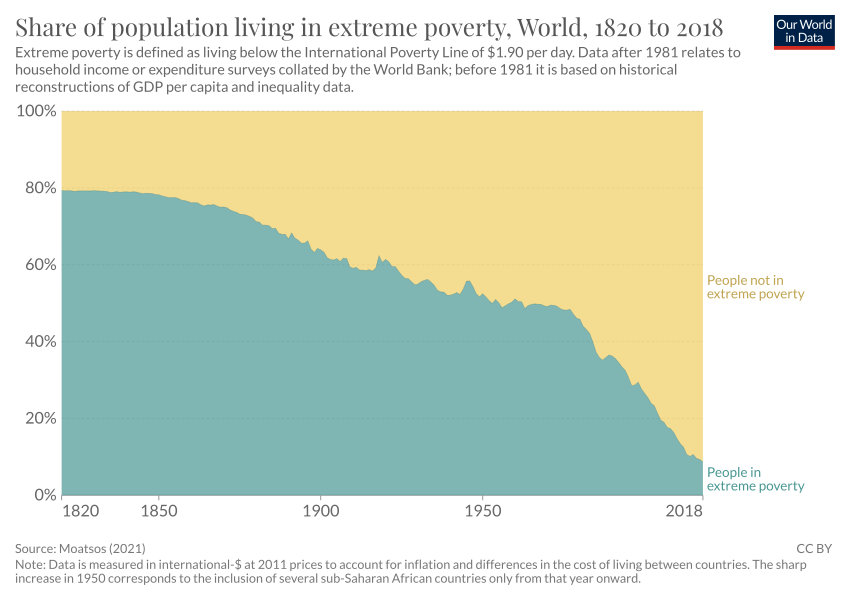
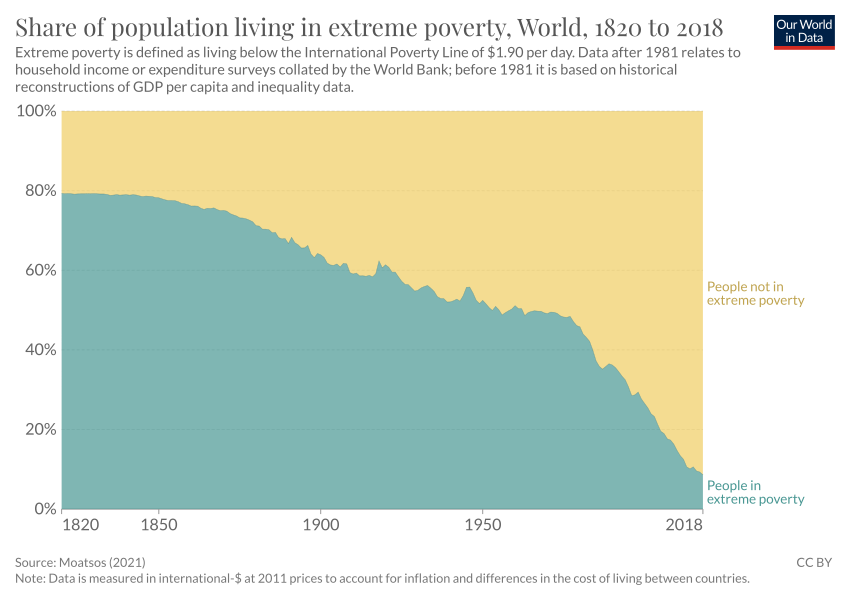
Deploy 2022-10-04T11:41:20.736Z Updating chart share-of-population-living-in-extreme-poverty-cost-of-basic-needs

diff --git a/co2-emissions.html b/co2-emissions.html
@@ -1,4 +1,4 @@
-<!doctype html><html><head><meta name="viewport" content="width=device-width, initial-scale=1"/><title>CO2 emissions - Our World in Data</title><meta name="description" content="How much CO2 does the world emit? Which countries emit the most?"/><link rel="canonical" href="https://ourworldindata.org/co2-emissions"/><link rel="alternate" type="application/atom+xml" href="/atom.xml"/><link rel="apple-touch-icon" sizes="180x180" href="/apple-touch-icon.png"/><meta property="fb:app_id" content="1149943818390250"/><meta property="og:url" content="https://ourworldindata.org/co2-emissions"/><meta property="og:title" content="CO2 emissions"/><meta property="og:description" content="How much CO2 does the world emit? Which countries emit the most?"/><meta property="og:image" content="https://ourworldindata.org/uploads/2022/03/Screenshot-2022-03-04-at-16.51.31-768x480.png"/><meta property="og:site_name" content="Our World in Data"/><meta name="twitter:card" content="summary_large_image"/><meta name="twitter:site" content="@OurWorldInData"/><meta name="twitter:creator" content="@OurWorldInData"/><meta name="twitter:title" content="CO2 emissions"/><meta name="twitter:description" content="How much CO2 does the world emit? Which countries emit the most?"/><meta name="twitter:image" content="https://ourworldindata.org/uploads/2022/03/Screenshot-2022-03-04-at-16.51.31-768x480.png"/><link href="https://fonts.googleapis.com/css?family=Lato:300,400,400i,700,700i|Playfair+Display:400,700&amp;display=swap" rel="stylesheet"/><link rel="stylesheet" href="https://ourworldindata.org/assets/commons.css"/><link rel="stylesheet" href="https://ourworldindata.org/assets/owid.css"/><meta name="citation_title" content="CO₂ and Greenhouse Gas Emissions"/><meta name="citation_fulltext_html_url" content="https://ourworldindata.org/co2-and-other-greenhouse-gas-emissions"/><meta name="citation_fulltext_world_readable" content=""/><meta name="citation_publication_date" content="2020/05/11"/><meta name="citation_journal_title" content="Our World in Data"/><meta name="citation_journal_abbrev" content="Our World in Data"/><meta name="citation_author" content="Hannah Ritchie"/><meta name="citation_author" content="Max Roser"/><meta name="citation_author" content="Pablo Rosado"/></head><body class=""><header class="site-header"><div class="wrapper site-navigation-bar"><div class="site-logo"><a href="/">Our World<br/> in Data</a></div><nav class="site-navigation"><div class="topics-button-wrapper"><a href="/#entries" class="topics-button"><div class="label">Articles <br/><strong>by topic</strong></div><div class="icon"><svg width="12" height="6"><path d="M0,0 L12,0 L6,6 Z" fill="currentColor"></path></svg></div></a></div><div><div class="site-primary-navigation"><form class="HeaderSearch" action="/search" method="GET"><input type="search" name="q" placeholder="Search..."/><div class="icon"><svg aria-hidden="true" focusable="false" data-prefix="fas" data-icon="magnifying-glass" class="svg-inline--fa fa-magnifying-glass " role="img" xmlns="http://www.w3.org/2000/svg" viewBox="0 0 512 512"><path fill="currentColor" d="M416 208c0 45.9-14.9 88.3-40 122.7L502.6 457.4c12.5 12.5 12.5 32.8 0 45.3s-32.8 12.5-45.3 0L330.7 376c-34.4 25.2-76.8 40-122.7 40C93.1 416 0 322.9 0 208S93.1 0 208 0S416 93.1 416 208zM208 352c79.5 0 144-64.5 144-144s-64.5-144-144-144S64 128.5 64 208s64.5 144 144 144z"></path></svg></div></form><ul class="site-primary-links"><li><a href="/blog" data-track-note="header-navigation">Latest</a></li><li><a href="/about" data-track-note="header-navigation">About</a></li><li><a href="/donate" data-track-note="header-navigation">Donate</a></li></ul></div><div class="site-secondary-navigation"><ul class="site-secondary-links"><li><a href="/charts" data-track-note="header-navigation">All charts</a></li><li><a href="https://sdg-tracker.org" data-track-note="header-navigation">Sustainable Development Goals Tracker</a></li></ul></div></div></nav><div class="header-logos-wrapper"><a href="https://www.oxfordmartin.ox.ac.uk/global-development" class="oxford-logo"><img src="https://ourworldindata.org/oms-logo.svg" alt="Oxford Martin School logo"/></a><a href="https://global-change-data-lab.org/" class="gcdl-logo"><img src="https://ourworldindata.org/gcdl-logo.svg" alt="Global Change Data Lab logo"/></a></div><div class="mobile-site-navigation"><button data-track-note="mobile-search-button"><svg aria-hidden="true" focusable="false" data-prefix="fas" data-icon="magnifying-glass" class="svg-inline--fa fa-magnifying-glass " role="img" xmlns="http://www.w3.org/2000/svg" viewBox="0 0 512 512"><path fill="currentColor" d="M416 208c0 45.9-14.9 88.3-40 122.7L502.6 457.4c12.5 12.5 12.5 32.8 0 45.3s-32.8 12.5-45.3 0L330.7 376c-34.4 25.2-76.8 40-122.7 40C93.1 416 0 322.9 0 208S93.1 0 208 0S416 93.1 416 208zM208 352c79.5 0 144-64.5 144-144s-64.5-144-144-144S64 128.5 64 208s64.5 144 144 144z"></path></svg></button><button data-track-note="mobile-newsletter-button"><svg aria-hidden="true" focusable="false" data-prefix="fas" data-icon="envelope-open-text" class="svg-inline--fa fa-envelope-open-text " role="img" xmlns="http://www.w3.org/2000/svg" viewBox="0 0 512 512"><path fill="currentColor" d="M215.4 96H144 107.8 96v8.8V144v40.4 89L.2 202.5c1.6-18.1 10.9-34.9 25.7-45.8L48 140.3V96c0-26.5 21.5-48 48-48h76.6l49.9-36.9C232.2 3.9 243.9 0 256 0s23.8 3.9 33.5 11L339.4 48H416c26.5 0 48 21.5 48 48v44.3l22.1 16.4c14.8 10.9 24.1 27.7 25.7 45.8L416 273.4v-89V144 104.8 96H404.2 368 296.6 215.4zM0 448V242.1L217.6 403.3c11.1 8.2 24.6 12.7 38.4 12.7s27.3-4.4 38.4-12.7L512 242.1V448v0c0 35.3-28.7 64-64 64H64c-35.3 0-64-28.7-64-64v0zM176 160H336c8.8 0 16 7.2 16 16s-7.2 16-16 16H176c-8.8 0-16-7.2-16-16s7.2-16 16-16zm0 64H336c8.8 0 16 7.2 16 16s-7.2 16-16 16H176c-8.8 0-16-7.2-16-16s7.2-16 16-16z"></path></svg></button><button data-track-note="mobile-hamburger-button"><svg aria-hidden="true" focusable="false" data-prefix="fas" data-icon="bars" class="svg-inline--fa fa-bars " role="img" xmlns="http://www.w3.org/2000/svg" viewBox="0 0 448 512"><path fill="currentColor" d="M0 96C0 78.3 14.3 64 32 64H416c17.7 0 32 14.3 32 32s-14.3 32-32 32H32C14.3 128 0 113.7 0 96zM0 256c0-17.7 14.3-32 32-32H416c17.7 0 32 14.3 32 32s-14.3 32-32 32H32c-17.7 0-32-14.3-32-32zM448 416c0 17.7-14.3 32-32 32H32c-17.7 0-32-14.3-32-32s14.3-32 32-32H416c17.7 0 32 14.3 32 32z"></path></svg></button></div></div></header><div class="alert-banner"><div class="content"><div class="text"><strong>COVID-19 vaccinations, cases, excess mortality, and much more</strong></div><a href="/coronavirus#explore-the-global-situation" data-track-note="covid-banner-click">Explore our COVID-19 data</a></div></div><main><article class="page with-sidebar large-banner"><div class="offset-header"><header class="article-header"><div class="article-titles"><h1 class="entry-title">CO2 emissions</h1><div class="breadcrumb"><a href="/">Home</a><span class="separator"><svg aria-hidden="true" focusable="false" data-prefix="fas" data-icon="angle-right" class="svg-inline--fa fa-angle-right " role="img" xmlns="http://www.w3.org/2000/svg" viewBox="0 0 320 512"><path fill="currentColor" d="M278.6 233.4c12.5 12.5 12.5 32.8 0 45.3l-160 160c-12.5 12.5-32.8 12.5-45.3 0s-12.5-32.8 0-45.3L210.7 256 73.4 118.6c-12.5-12.5-12.5-32.8 0-45.3s32.8-12.5 45.3 0l160 160z"></path></svg></span><a data-track-note="breadcrumb" href="/co2-and-other-greenhouse-gas-emissions">CO₂ and GHG Emissions</a><span class="separator"><svg aria-hidden="true" focusable="false" data-prefix="fas" data-icon="angle-right" class="svg-inline--fa fa-angle-right " role="img" xmlns="http://www.w3.org/2000/svg" viewBox="0 0 320 512"><path fill="currentColor" d="M278.6 233.4c12.5 12.5 12.5 32.8 0 45.3l-160 160c-12.5 12.5-32.8 12.5-45.3 0s-12.5-32.8 0-45.3L210.7 256 73.4 118.6c-12.5-12.5-12.5-32.8 0-45.3s32.8-12.5 45.3 0l160 160z"></path></svg></span><span>CO₂ emissions</span></div></div><div class="authors-byline"><a href="/team">by Hannah Ritchie and Max Roser</a></div><div class="tools"><a href="#licence"><svg aria-hidden="true" focusable="false" data-prefix="fab" data-icon="creative-commons" class="svg-inline--fa fa-creative-commons " role="img" xmlns="http://www.w3.org/2000/svg" viewBox="0 0 496 512"><path fill="currentColor" d="M245.83 214.87l-33.22 17.28c-9.43-19.58-25.24-19.93-27.46-19.93-22.13 0-33.22 14.61-33.22 43.84 0 23.57 9.21 43.84 33.22 43.84 14.47 0 24.65-7.09 30.57-21.26l30.55 15.5c-6.17 11.51-25.69 38.98-65.1 38.98-22.6 0-73.96-10.32-73.96-77.05 0-58.69 43-77.06 72.63-77.06 30.72-.01 52.7 11.95 65.99 35.86zm143.05 0l-32.78 17.28c-9.5-19.77-25.72-19.93-27.9-19.93-22.14 0-33.22 14.61-33.22 43.84 0 23.55 9.23 43.84 33.22 43.84 14.45 0 24.65-7.09 30.54-21.26l31 15.5c-2.1 3.75-21.39 38.98-65.09 38.98-22.69 0-73.96-9.87-73.96-77.05 0-58.67 42.97-77.06 72.63-77.06 30.71-.01 52.58 11.95 65.56 35.86zM247.56 8.05C104.74 8.05 0 123.11 0 256.05c0 138.49 113.6 248 247.56 248 129.93 0 248.44-100.87 248.44-248 0-137.87-106.62-248-248.44-248zm.87 450.81c-112.54 0-203.7-93.04-203.7-202.81 0-105.42 85.43-203.27 203.72-203.27 112.53 0 202.82 89.46 202.82 203.26-.01 121.69-99.68 202.82-202.84 202.82z"></path></svg>Reuse our work freely</a><a href="#citation"><svg aria-hidden="true" focusable="false" data-prefix="fas" data-icon="book" class="svg-inline--fa fa-book " role="img" xmlns="http://www.w3.org/2000/svg" viewBox="0 0 448 512"><path fill="currentColor" d="M96 0C43 0 0 43 0 96V416c0 53 43 96 96 96H384h32c17.7 0 32-14.3 32-32s-14.3-32-32-32V384c17.7 0 32-14.3 32-32V32c0-17.7-14.3-32-32-32H384 96zm0 384H352v64H96c-17.7 0-32-14.3-32-32s14.3-32 32-32zm32-240c0-8.8 7.2-16 16-16H336c8.8 0 16 7.2 16 16s-7.2 16-16 16H144c-8.8 0-16-7.2-16-16zm16 48H336c8.8 0 16 7.2 16 16s-7.2 16-16 16H144c-8.8 0-16-7.2-16-16s7.2-16 16-16z"></path></svg>Cite this research</a></div></header></div><div class="offset-subnavigation"><div class="site-subnavigation"><div class="site-subnavigation-scroll"><ul class="site-subnavigation-links"><li class="highlight"><a href="/co2-and-other-greenhouse-gas-emissions" data-track-note="co2-subnav-co2-and-ghg-emissions">CO₂ and GHG Emissions<svg aria-hidden="true" focusable="false" data-prefix="fas" data-icon="chevron-left" class="svg-inline--fa fa-chevron-left " role="img" xmlns="http://www.w3.org/2000/svg" viewBox="0 0 384 512"><path fill="currentColor" d="M41.4 233.4c-12.5 12.5-12.5 32.8 0 45.3l192 192c12.5 12.5 32.8 12.5 45.3 0s12.5-32.8 0-45.3L109.3 256 278.6 86.6c12.5-12.5 12.5-32.8 0-45.3s-32.8-12.5-45.3 0l-192 192z"></path></svg></a></li><li class=""><a href="/co2-and-other-greenhouse-gas-emissions#co2-and-greenhouse-gas-emissions-country-profiles" data-track-note="co2-subnav-by-country">By country</a></li><li class=""><a href="/explorers/co2" data-track-note="co2-subnav-co2-data-explorer">Data explorer</a></li><li class="current"><a href="/co2-emissions" data-track-note="co2-subnav-co2-emissions">CO₂ emissions</a></li><li class=""><a href="/emissions-by-fuel" data-track-note="co2-subnav-by-fuel">CO₂ by fuel</a></li><li class=""><a href="/greenhouse-gas-emissions" data-track-note="co2-subnav-ghg-emissions">GHG emissions</a></li><li class=""><a href="/emissions-by-sector" data-track-note="co2-subnav-by-sector">By sector</a></li><li class=""><a href="/atmospheric-concentrations" data-track-note="co2-subnav-atm-concentrations">Atmospheric concentrations</a></li><li class=""><a href="/explorers/climate-change" data-track-note="co2-subnav-climate-impacts">Climate impacts</a></li></ul></div></div></div><div class="content-wrapper"><div class="toc-wrapper"><aside class="entry-sidebar"><nav class="entry-toc"><ul><li><a href="#" data-track-note="toc-header">CO2 emissions</a></li><li class="section"><a href="#global-co2-emissions-from-fossil-fuels" data-track-note="toc-link">Global CO2 emissions from fossil fuels</a></li><li class="subsection"><a href="#global-co2-emissions-from-fossil-fuels-global-co2-emissions-from-fossil-fuels" data-track-note="toc-link">Global CO2 emissions from fossil fuels</a></li><li class="subsection"><a href="#global-co2-emissions-from-fossil-fuels-and-land-use-change" data-track-note="toc-link">Global CO2 emissions from fossil fuels and land use change</a></li><li class="subsection"><a href="#co2-emissions-by-region" data-track-note="toc-link">CO2 emissions by region</a></li><li class="section"><a href="#per-capita-co2-emissions" data-track-note="toc-link">Per capita CO2 emissions</a></li><li class="section"><a href="#annual-co2-emissions" data-track-note="toc-link">Annual CO2 emissions</a></li><li class="section"><a href="#annual-change-in-co2-emissions" data-track-note="toc-link">Annual change in CO2 emissions</a></li><li class="section"><a href="#cumulative-co2-emissions" data-track-note="toc-link">Cumulative CO2 emissions</a></li><li class="section"><a href="#consumption-based-trade-adjusted-emissions" data-track-note="toc-link">Consumption-based (trade-adjusted) emissions</a></li><li class="section"><a href="#decoupling-co2-emissions-from-economic-growth" data-track-note="toc-link">Decoupling CO₂ emissions from economic growth</a></li><li class="section"><a href="#global-inequalities-in-co2-emissions" data-track-note="toc-link">Global inequalities in CO2 emissions</a></li><li class="subsection"><a href="#global-inequalities-by-production" data-track-note="toc-link">Global inequalities by production</a></li><li class="subsection"><a href="#global-inequalities-by-consumption" data-track-note="toc-link">Global inequalities by consumption</a></li><li class="section"><a href="#how-do-we-measure-or-estimate-co2-emissions" data-track-note="toc-link">How do we measure or estimate CO2 emissions?</a></li><li class="section"><a href="#endnotes" data-track-note="toc-link">Endnotes</a></li><li class="section"><a href="#licence" data-track-note="toc-link">Licence</a></li><li class="section"><a href="#citation" data-track-note="toc-link">Citation</a></li></ul></nav><div class="toggle-toc"><button data-track-note="page-toggle-toc" aria-label="Open table of contents"><svg aria-hidden="true" focusable="false" data-prefix="fas" data-icon="bars" class="svg-inline--fa fa-bars " role="img" xmlns="http://www.w3.org/2000/svg" viewBox="0 0 448 512"><path fill="currentColor" d="M0 96C0 78.3 14.3 64 32 64H416c17.7 0 32 14.3 32 32s-14.3 32-32 32H32C14.3 128 0 113.7 0 96zM0 256c0-17.7 14.3-32 32-32H416c17.7 0 32 14.3 32 32s-14.3 32-32 32H32c-17.7 0-32-14.3-32-32zM448 416c0 17.7-14.3 32-32 32H32c-17.7 0-32-14.3-32-32s14.3-32 32-32H416c17.7 0 32 14.3 32 32z"></path></svg><span class="label">Contents</span></button></div></aside></div><div class="offset-content"><div class="content-and-footnotes"><div class="article-content"><section><div class="wp-block-columns is-style-sticky-right"><div class="wp-block-column"><p>You can&nbsp;<strong><a href="https://github.com/owid/co2-data">download</a></strong>&nbsp;our complete <em>Our World in Data</em> CO<sub>2</sub> and Greenhouse Gas Emissions database.</p><hr class="wp-block-separator"><p>Carbon dioxide emissions are the primary driver of global climate change. It’s widely recognised that to avoid the worst impacts of climate change, the world needs to urgently reduce emissions. But, how this responsibility is shared between regions, countries, and individuals has been an endless point of contention in international discussions. </p><p>This debate arises from the various ways in which emissions are compared: as annual emissions by country; emissions per person; historical contributions; and whether they adjust for traded goods and services. These metrics can tell very different stories. </p><p>We teamed up with the YouTube channel, <em>Kurzgesagt</em>, to produce a video which explored these different metrics in detail: <a href="https://www.youtube.com/watch?v=ipVxxxqwBQw">‘Who is responsible for climate change? – Who needs to fix it?’</a>. All of the data and research featured in this video is contained in this article: below we look in detail at the many ways emissions are broken down.</p><div class="wp-container-633c09321197a wp-block-group">    <div class="block-wrapper"><div class="wp-block-owid-prominent-link with-image" data-no-lightbox="true" data-style="is-style-thin" data-title="&nbsp;‘Who is responsible for climate change? – Who needs to fix it?’"><a href="https://www.youtube.com/watch?v=ipVxxxqwBQw"><figure><img width="768" height="433" src="https://ourworldindata.org/uploads/2020/06/CO2-Kurzgesagt-768x433.png" class="attachment-medium_large size-medium_large" alt="Co2 kurzgesagt" loading="lazy" srcset="https://ourworldindata.org/uploads/2020/06/CO2-Kurzgesagt-768x433.png 768w, https://ourworldindata.org/uploads/2020/06/CO2-Kurzgesagt-400x225.png 400w, https://ourworldindata.org/uploads/2020/06/CO2-Kurzgesagt-800x451.png 800w, https://ourworldindata.org/uploads/2020/06/CO2-Kurzgesagt-150x84.png 150w, https://ourworldindata.org/uploads/2020/06/CO2-Kurzgesagt.png 1422w" sizes="(max-width: 768px) 100vw, 768px" data-high-res-src="https://ourworldindata.org/uploads/2020/06/CO2-Kurzgesagt.png"></figure><div class="content-wrapper"><div class="content">
+<!doctype html><html><head><meta name="viewport" content="width=device-width, initial-scale=1"/><title>CO2 emissions - Our World in Data</title><meta name="description" content="How much CO2 does the world emit? Which countries emit the most?"/><link rel="canonical" href="https://ourworldindata.org/co2-emissions"/><link rel="alternate" type="application/atom+xml" href="/atom.xml"/><link rel="apple-touch-icon" sizes="180x180" href="/apple-touch-icon.png"/><meta property="fb:app_id" content="1149943818390250"/><meta property="og:url" content="https://ourworldindata.org/co2-emissions"/><meta property="og:title" content="CO2 emissions"/><meta property="og:description" content="How much CO2 does the world emit? Which countries emit the most?"/><meta property="og:image" content="https://ourworldindata.org/uploads/2022/03/Screenshot-2022-03-04-at-16.51.31-768x480.png"/><meta property="og:site_name" content="Our World in Data"/><meta name="twitter:card" content="summary_large_image"/><meta name="twitter:site" content="@OurWorldInData"/><meta name="twitter:creator" content="@OurWorldInData"/><meta name="twitter:title" content="CO2 emissions"/><meta name="twitter:description" content="How much CO2 does the world emit? Which countries emit the most?"/><meta name="twitter:image" content="https://ourworldindata.org/uploads/2022/03/Screenshot-2022-03-04-at-16.51.31-768x480.png"/><link href="https://fonts.googleapis.com/css?family=Lato:300,400,400i,700,700i|Playfair+Display:400,700&amp;display=swap" rel="stylesheet"/><link rel="stylesheet" href="https://ourworldindata.org/assets/commons.css"/><link rel="stylesheet" href="https://ourworldindata.org/assets/owid.css"/><meta name="citation_title" content="CO₂ and Greenhouse Gas Emissions"/><meta name="citation_fulltext_html_url" content="https://ourworldindata.org/co2-and-other-greenhouse-gas-emissions"/><meta name="citation_fulltext_world_readable" content=""/><meta name="citation_publication_date" content="2020/05/11"/><meta name="citation_journal_title" content="Our World in Data"/><meta name="citation_journal_abbrev" content="Our World in Data"/><meta name="citation_author" content="Hannah Ritchie"/><meta name="citation_author" content="Max Roser"/><meta name="citation_author" content="Pablo Rosado"/></head><body class=""><header class="site-header"><div class="wrapper site-navigation-bar"><div class="site-logo"><a href="/">Our World<br/> in Data</a></div><nav class="site-navigation"><div class="topics-button-wrapper"><a href="/#entries" class="topics-button"><div class="label">Articles <br/><strong>by topic</strong></div><div class="icon"><svg width="12" height="6"><path d="M0,0 L12,0 L6,6 Z" fill="currentColor"></path></svg></div></a></div><div><div class="site-primary-navigation"><form class="HeaderSearch" action="/search" method="GET"><input type="search" name="q" placeholder="Search..."/><div class="icon"><svg aria-hidden="true" focusable="false" data-prefix="fas" data-icon="magnifying-glass" class="svg-inline--fa fa-magnifying-glass " role="img" xmlns="http://www.w3.org/2000/svg" viewBox="0 0 512 512"><path fill="currentColor" d="M416 208c0 45.9-14.9 88.3-40 122.7L502.6 457.4c12.5 12.5 12.5 32.8 0 45.3s-32.8 12.5-45.3 0L330.7 376c-34.4 25.2-76.8 40-122.7 40C93.1 416 0 322.9 0 208S93.1 0 208 0S416 93.1 416 208zM208 352c79.5 0 144-64.5 144-144s-64.5-144-144-144S64 128.5 64 208s64.5 144 144 144z"></path></svg></div></form><ul class="site-primary-links"><li><a href="/blog" data-track-note="header-navigation">Latest</a></li><li><a href="/about" data-track-note="header-navigation">About</a></li><li><a href="/donate" data-track-note="header-navigation">Donate</a></li></ul></div><div class="site-secondary-navigation"><ul class="site-secondary-links"><li><a href="/charts" data-track-note="header-navigation">All charts</a></li><li><a href="https://sdg-tracker.org" data-track-note="header-navigation">Sustainable Development Goals Tracker</a></li></ul></div></div></nav><div class="header-logos-wrapper"><a href="https://www.oxfordmartin.ox.ac.uk/global-development" class="oxford-logo"><img src="https://ourworldindata.org/oms-logo.svg" alt="Oxford Martin School logo"/></a><a href="https://global-change-data-lab.org/" class="gcdl-logo"><img src="https://ourworldindata.org/gcdl-logo.svg" alt="Global Change Data Lab logo"/></a></div><div class="mobile-site-navigation"><button data-track-note="mobile-search-button"><svg aria-hidden="true" focusable="false" data-prefix="fas" data-icon="magnifying-glass" class="svg-inline--fa fa-magnifying-glass " role="img" xmlns="http://www.w3.org/2000/svg" viewBox="0 0 512 512"><path fill="currentColor" d="M416 208c0 45.9-14.9 88.3-40 122.7L502.6 457.4c12.5 12.5 12.5 32.8 0 45.3s-32.8 12.5-45.3 0L330.7 376c-34.4 25.2-76.8 40-122.7 40C93.1 416 0 322.9 0 208S93.1 0 208 0S416 93.1 416 208zM208 352c79.5 0 144-64.5 144-144s-64.5-144-144-144S64 128.5 64 208s64.5 144 144 144z"></path></svg></button><button data-track-note="mobile-newsletter-button"><svg aria-hidden="true" focusable="false" data-prefix="fas" data-icon="envelope-open-text" class="svg-inline--fa fa-envelope-open-text " role="img" xmlns="http://www.w3.org/2000/svg" viewBox="0 0 512 512"><path fill="currentColor" d="M215.4 96H144 107.8 96v8.8V144v40.4 89L.2 202.5c1.6-18.1 10.9-34.9 25.7-45.8L48 140.3V96c0-26.5 21.5-48 48-48h76.6l49.9-36.9C232.2 3.9 243.9 0 256 0s23.8 3.9 33.5 11L339.4 48H416c26.5 0 48 21.5 48 48v44.3l22.1 16.4c14.8 10.9 24.1 27.7 25.7 45.8L416 273.4v-89V144 104.8 96H404.2 368 296.6 215.4zM0 448V242.1L217.6 403.3c11.1 8.2 24.6 12.7 38.4 12.7s27.3-4.4 38.4-12.7L512 242.1V448v0c0 35.3-28.7 64-64 64H64c-35.3 0-64-28.7-64-64v0zM176 160H336c8.8 0 16 7.2 16 16s-7.2 16-16 16H176c-8.8 0-16-7.2-16-16s7.2-16 16-16zm0 64H336c8.8 0 16 7.2 16 16s-7.2 16-16 16H176c-8.8 0-16-7.2-16-16s7.2-16 16-16z"></path></svg></button><button data-track-note="mobile-hamburger-button"><svg aria-hidden="true" focusable="false" data-prefix="fas" data-icon="bars" class="svg-inline--fa fa-bars " role="img" xmlns="http://www.w3.org/2000/svg" viewBox="0 0 448 512"><path fill="currentColor" d="M0 96C0 78.3 14.3 64 32 64H416c17.7 0 32 14.3 32 32s-14.3 32-32 32H32C14.3 128 0 113.7 0 96zM0 256c0-17.7 14.3-32 32-32H416c17.7 0 32 14.3 32 32s-14.3 32-32 32H32c-17.7 0-32-14.3-32-32zM448 416c0 17.7-14.3 32-32 32H32c-17.7 0-32-14.3-32-32s14.3-32 32-32H416c17.7 0 32 14.3 32 32z"></path></svg></button></div></div></header><div class="alert-banner"><div class="content"><div class="text"><strong>COVID-19 vaccinations, cases, excess mortality, and much more</strong></div><a href="/coronavirus#explore-the-global-situation" data-track-note="covid-banner-click">Explore our COVID-19 data</a></div></div><main><article class="page with-sidebar large-banner"><div class="offset-header"><header class="article-header"><div class="article-titles"><h1 class="entry-title">CO2 emissions</h1><div class="breadcrumb"><a href="/">Home</a><span class="separator"><svg aria-hidden="true" focusable="false" data-prefix="fas" data-icon="angle-right" class="svg-inline--fa fa-angle-right " role="img" xmlns="http://www.w3.org/2000/svg" viewBox="0 0 320 512"><path fill="currentColor" d="M278.6 233.4c12.5 12.5 12.5 32.8 0 45.3l-160 160c-12.5 12.5-32.8 12.5-45.3 0s-12.5-32.8 0-45.3L210.7 256 73.4 118.6c-12.5-12.5-12.5-32.8 0-45.3s32.8-12.5 45.3 0l160 160z"></path></svg></span><a data-track-note="breadcrumb" href="/co2-and-other-greenhouse-gas-emissions">CO₂ and GHG Emissions</a><span class="separator"><svg aria-hidden="true" focusable="false" data-prefix="fas" data-icon="angle-right" class="svg-inline--fa fa-angle-right " role="img" xmlns="http://www.w3.org/2000/svg" viewBox="0 0 320 512"><path fill="currentColor" d="M278.6 233.4c12.5 12.5 12.5 32.8 0 45.3l-160 160c-12.5 12.5-32.8 12.5-45.3 0s-12.5-32.8 0-45.3L210.7 256 73.4 118.6c-12.5-12.5-12.5-32.8 0-45.3s32.8-12.5 45.3 0l160 160z"></path></svg></span><span>CO₂ emissions</span></div></div><div class="authors-byline"><a href="/team">by Hannah Ritchie and Max Roser</a></div><div class="tools"><a href="#licence"><svg aria-hidden="true" focusable="false" data-prefix="fab" data-icon="creative-commons" class="svg-inline--fa fa-creative-commons " role="img" xmlns="http://www.w3.org/2000/svg" viewBox="0 0 496 512"><path fill="currentColor" d="M245.83 214.87l-33.22 17.28c-9.43-19.58-25.24-19.93-27.46-19.93-22.13 0-33.22 14.61-33.22 43.84 0 23.57 9.21 43.84 33.22 43.84 14.47 0 24.65-7.09 30.57-21.26l30.55 15.5c-6.17 11.51-25.69 38.98-65.1 38.98-22.6 0-73.96-10.32-73.96-77.05 0-58.69 43-77.06 72.63-77.06 30.72-.01 52.7 11.95 65.99 35.86zm143.05 0l-32.78 17.28c-9.5-19.77-25.72-19.93-27.9-19.93-22.14 0-33.22 14.61-33.22 43.84 0 23.55 9.23 43.84 33.22 43.84 14.45 0 24.65-7.09 30.54-21.26l31 15.5c-2.1 3.75-21.39 38.98-65.09 38.98-22.69 0-73.96-9.87-73.96-77.05 0-58.67 42.97-77.06 72.63-77.06 30.71-.01 52.58 11.95 65.56 35.86zM247.56 8.05C104.74 8.05 0 123.11 0 256.05c0 138.49 113.6 248 247.56 248 129.93 0 248.44-100.87 248.44-248 0-137.87-106.62-248-248.44-248zm.87 450.81c-112.54 0-203.7-93.04-203.7-202.81 0-105.42 85.43-203.27 203.72-203.27 112.53 0 202.82 89.46 202.82 203.26-.01 121.69-99.68 202.82-202.84 202.82z"></path></svg>Reuse our work freely</a><a href="#citation"><svg aria-hidden="true" focusable="false" data-prefix="fas" data-icon="book" class="svg-inline--fa fa-book " role="img" xmlns="http://www.w3.org/2000/svg" viewBox="0 0 448 512"><path fill="currentColor" d="M96 0C43 0 0 43 0 96V416c0 53 43 96 96 96H384h32c17.7 0 32-14.3 32-32s-14.3-32-32-32V384c17.7 0 32-14.3 32-32V32c0-17.7-14.3-32-32-32H384 96zm0 384H352v64H96c-17.7 0-32-14.3-32-32s14.3-32 32-32zm32-240c0-8.8 7.2-16 16-16H336c8.8 0 16 7.2 16 16s-7.2 16-16 16H144c-8.8 0-16-7.2-16-16zm16 48H336c8.8 0 16 7.2 16 16s-7.2 16-16 16H144c-8.8 0-16-7.2-16-16s7.2-16 16-16z"></path></svg>Cite this research</a></div></header></div><div class="offset-subnavigation"><div class="site-subnavigation"><div class="site-subnavigation-scroll"><ul class="site-subnavigation-links"><li class="highlight"><a href="/co2-and-other-greenhouse-gas-emissions" data-track-note="co2-subnav-co2-and-ghg-emissions">CO₂ and GHG Emissions<svg aria-hidden="true" focusable="false" data-prefix="fas" data-icon="chevron-left" class="svg-inline--fa fa-chevron-left " role="img" xmlns="http://www.w3.org/2000/svg" viewBox="0 0 384 512"><path fill="currentColor" d="M41.4 233.4c-12.5 12.5-12.5 32.8 0 45.3l192 192c12.5 12.5 32.8 12.5 45.3 0s12.5-32.8 0-45.3L109.3 256 278.6 86.6c12.5-12.5 12.5-32.8 0-45.3s-32.8-12.5-45.3 0l-192 192z"></path></svg></a></li><li class=""><a href="/co2-and-other-greenhouse-gas-emissions#co2-and-greenhouse-gas-emissions-country-profiles" data-track-note="co2-subnav-by-country">By country</a></li><li class=""><a href="/explorers/co2" data-track-note="co2-subnav-co2-data-explorer">Data explorer</a></li><li class="current"><a href="/co2-emissions" data-track-note="co2-subnav-co2-emissions">CO₂ emissions</a></li><li class=""><a href="/emissions-by-fuel" data-track-note="co2-subnav-by-fuel">CO₂ by fuel</a></li><li class=""><a href="/greenhouse-gas-emissions" data-track-note="co2-subnav-ghg-emissions">GHG emissions</a></li><li class=""><a href="/emissions-by-sector" data-track-note="co2-subnav-by-sector">By sector</a></li><li class=""><a href="/atmospheric-concentrations" data-track-note="co2-subnav-atm-concentrations">Atmospheric concentrations</a></li><li class=""><a href="/explorers/climate-change" data-track-note="co2-subnav-climate-impacts">Climate impacts</a></li></ul></div></div></div><div class="content-wrapper"><div class="toc-wrapper"><aside class="entry-sidebar"><nav class="entry-toc"><ul><li><a href="#" data-track-note="toc-header">CO2 emissions</a></li><li class="section"><a href="#global-co2-emissions-from-fossil-fuels" data-track-note="toc-link">Global CO2 emissions from fossil fuels</a></li><li class="subsection"><a href="#global-co2-emissions-from-fossil-fuels-global-co2-emissions-from-fossil-fuels" data-track-note="toc-link">Global CO2 emissions from fossil fuels</a></li><li class="subsection"><a href="#global-co2-emissions-from-fossil-fuels-and-land-use-change" data-track-note="toc-link">Global CO2 emissions from fossil fuels and land use change</a></li><li class="subsection"><a href="#co2-emissions-by-region" data-track-note="toc-link">CO2 emissions by region</a></li><li class="section"><a href="#per-capita-co2-emissions" data-track-note="toc-link">Per capita CO2 emissions</a></li><li class="section"><a href="#annual-co2-emissions" data-track-note="toc-link">Annual CO2 emissions</a></li><li class="section"><a href="#annual-change-in-co2-emissions" data-track-note="toc-link">Annual change in CO2 emissions</a></li><li class="section"><a href="#cumulative-co2-emissions" data-track-note="toc-link">Cumulative CO2 emissions</a></li><li class="section"><a href="#consumption-based-trade-adjusted-emissions" data-track-note="toc-link">Consumption-based (trade-adjusted) emissions</a></li><li class="section"><a href="#decoupling-co2-emissions-from-economic-growth" data-track-note="toc-link">Decoupling CO₂ emissions from economic growth</a></li><li class="section"><a href="#global-inequalities-in-co2-emissions" data-track-note="toc-link">Global inequalities in CO2 emissions</a></li><li class="subsection"><a href="#global-inequalities-by-production" data-track-note="toc-link">Global inequalities by production</a></li><li class="subsection"><a href="#global-inequalities-by-consumption" data-track-note="toc-link">Global inequalities by consumption</a></li><li class="section"><a href="#how-do-we-measure-or-estimate-co2-emissions" data-track-note="toc-link">How do we measure or estimate CO2 emissions?</a></li><li class="section"><a href="#endnotes" data-track-note="toc-link">Endnotes</a></li><li class="section"><a href="#licence" data-track-note="toc-link">Licence</a></li><li class="section"><a href="#citation" data-track-note="toc-link">Citation</a></li></ul></nav><div class="toggle-toc"><button data-track-note="page-toggle-toc" aria-label="Open table of contents"><svg aria-hidden="true" focusable="false" data-prefix="fas" data-icon="bars" class="svg-inline--fa fa-bars " role="img" xmlns="http://www.w3.org/2000/svg" viewBox="0 0 448 512"><path fill="currentColor" d="M0 96C0 78.3 14.3 64 32 64H416c17.7 0 32 14.3 32 32s-14.3 32-32 32H32C14.3 128 0 113.7 0 96zM0 256c0-17.7 14.3-32 32-32H416c17.7 0 32 14.3 32 32s-14.3 32-32 32H32c-17.7 0-32-14.3-32-32zM448 416c0 17.7-14.3 32-32 32H32c-17.7 0-32-14.3-32-32s14.3-32 32-32H416c17.7 0 32 14.3 32 32z"></path></svg><span class="label">Contents</span></button></div></aside></div><div class="offset-content"><div class="content-and-footnotes"><div class="article-content"><section><div class="wp-block-columns is-style-sticky-right"><div class="wp-block-column"><p>You can&nbsp;<strong><a href="https://github.com/owid/co2-data">download</a></strong>&nbsp;our complete <em>Our World in Data</em> CO<sub>2</sub> and Greenhouse Gas Emissions database.</p><hr class="wp-block-separator"><p>Carbon dioxide emissions are the primary driver of global climate change. It’s widely recognised that to avoid the worst impacts of climate change, the world needs to urgently reduce emissions. But, how this responsibility is shared between regions, countries, and individuals has been an endless point of contention in international discussions. </p><p>This debate arises from the various ways in which emissions are compared: as annual emissions by country; emissions per person; historical contributions; and whether they adjust for traded goods and services. These metrics can tell very different stories. </p><p>We teamed up with the YouTube channel, <em>Kurzgesagt</em>, to produce a video which explored these different metrics in detail: <a href="https://www.youtube.com/watch?v=ipVxxxqwBQw">‘Who is responsible for climate change? – Who needs to fix it?’</a>. All of the data and research featured in this video is contained in this article: below we look in detail at the many ways emissions are broken down.</p><div class="wp-container-633c1c0a304fb wp-block-group">    <div class="block-wrapper"><div class="wp-block-owid-prominent-link with-image" data-no-lightbox="true" data-style="is-style-thin" data-title="&nbsp;‘Who is responsible for climate change? – Who needs to fix it?’"><a href="https://www.youtube.com/watch?v=ipVxxxqwBQw"><figure><img width="768" height="433" src="https://ourworldindata.org/uploads/2020/06/CO2-Kurzgesagt-768x433.png" class="attachment-medium_large size-medium_large" alt="Co2 kurzgesagt" loading="lazy" srcset="https://ourworldindata.org/uploads/2020/06/CO2-Kurzgesagt-768x433.png 768w, https://ourworldindata.org/uploads/2020/06/CO2-Kurzgesagt-400x225.png 400w, https://ourworldindata.org/uploads/2020/06/CO2-Kurzgesagt-800x451.png 800w, https://ourworldindata.org/uploads/2020/06/CO2-Kurzgesagt-150x84.png 150w, https://ourworldindata.org/uploads/2020/06/CO2-Kurzgesagt.png 1422w" sizes="(max-width: 768px) 100vw, 768px" data-high-res-src="https://ourworldindata.org/uploads/2020/06/CO2-Kurzgesagt.png"></figure><div class="content-wrapper"><div class="content">
 
 <p>We teamed up with YouTube channel <em>Kurzgesagt</em> to make a video on comparisons of CO<sub>2</sub> emissions.</p>
 

diff --git a/extreme-poverty-in-brief.html b/extreme-poverty-in-brief.html
@@ -85,7 +85,7 @@
 <div class="wp-block-column"><div class="wp-sticky-container"></div></div>
 </div><div class="wp-block-columns is-style-sticky-right"><div class="wp-block-column"><p>The $1.90 poverty line, set by the UN, shows that globally close to one in ten people live in extreme poverty.<a id="ref-7" class="ref" href="#note-7"><sup>7</sup></a> In all these statistics the researchers are not only taking people’s monetary income into account, but also their non-monetary income and home production. One reason why this is important is because many poor people are small scale farmers who produce their own food.<a id="ref-8" class="ref" href="#note-8"><sup>8</sup></a> The fact that there are so many extremely poor people in the world makes it necessary to have such a low poverty line. Without an extremely low poverty line, we would not be able to see that a large share of the world lives in such deep poverty.&nbsp;</p><p>The UN’s global poverty line is valuable because it has been successful in drawing attention to the terrible depths of extreme poverty of the poorest people in the world.<a id="ref-9" class="ref" href="#note-9"><sup>9</sup></a></p><p>In a <a href="https://ourworldindata.org/history-of-poverty-has-just-begun">related essay</a> I focus on global poverty as defined by a higher poverty line. In this text here I’m focusing on the very poorest in the world and want to look at what needs to happen to end extreme poverty.</p></div><div class="wp-block-column"><div class="wp-sticky-container"></div></div></div><h3 id="the-big-lesson-of-the-last-200-years-economic-growth-is-possible-poverty-is-not-inevitable">The big lesson of the last 200 years: Economic growth is possible, poverty is not inevitable<a class="deep-link" href="#the-big-lesson-of-the-last-200-years-economic-growth-is-possible-poverty-is-not-inevitable"></a></h3><div class="wp-block-columns is-style-sticky-right"><div class="wp-block-column"><p>What needs explanation is not poverty, but prosperity. Deep poverty was the condition that the majority of humanity has always lived in. In the pre-modern days <a href="https://ourworldindata.org/human-height">hunger was widespread</a> and <a href="https://ourworldindata.org/child-mortality-in-the-past">every second child died</a> no matter where in the world it was born.&nbsp;</p><p>Historian Michail Moatsos has recently produced a new global dataset that goes back two centuries. The chart shows his data. According to his research three-quarters of the world lived in extreme poverty in 1820. This means they “could not afford a tiny space to live, some minimum heating capacity, and food that would not induce malnutrition.”<a id="ref-10" class="ref" href="#note-10"><sup>10</sup></a></p><p>The chart looks simple, but it would be a mistake to think that it was simple to produce this data. Underlying it is a wealth of careful historical research that Moatsos made use of. Historians gathered data for people around the world over two centuries to reconstruct how many of them were able to afford a set of very basic goods and services and aggregated this detailed information into this final picture. You find more information on the methodology at the footnote.<a id="ref-11" class="ref" href="#note-11"><sup>11</sup></a></p></div><div class="wp-block-column"><div class="wp-sticky-container"><figure data-grapher-src="https://ourworldindata.org/grapher/share-living-in-extreme-poverty-basic-needs-estimate?country=~OWID_WRL" class="grapherPreview">
                     <a href="https://ourworldindata.org/grapher/share-living-in-extreme-poverty-basic-needs-estimate?country=~OWID_WRL" target="_blank">
-                        <div><img src="https://ourworldindata.org/exports/share-living-in-extreme-poverty-basic-needs-estimate-ed9cc8bcc7e00c8a5b0c73d8f2310738_v11_850x600.svg" width="850" height="600" loading="lazy" data-no-lightbox="" alt="Share living in extreme poverty basic needs estimate ed9cc8bcc7e00c8a5b0c73d8f2310738 v11 850x600"></div>
+                        <div><img src="https://ourworldindata.org/exports/share-living-in-extreme-poverty-basic-needs-estimate-ed9cc8bcc7e00c8a5b0c73d8f2310738_v12_850x600.svg" width="850" height="600" loading="lazy" data-no-lightbox="" alt="Share living in extreme poverty basic needs estimate ed9cc8bcc7e00c8a5b0c73d8f2310738 v12 850x600"></div>
                         <div class="interactionNotice">
                             <span class="icon"><svg aria-hidden="true" focusable="false" data-prefix="fas" data-icon="hand-pointer" class="svg-inline--fa fa-hand-pointer fa-w-14" role="img" xmlns="http://www.w3.org/2000/svg" viewBox="0 0 448 617">
     <path fill="currentColor" d="M448,344.59v96a40.36,40.36,0,0,1-1.06,9.16l-32,136A40,40,0,0,1,376,616.59H168a40,40,0,0,1-32.35-16.47l-128-176a40,40,0,0,1,64.7-47.06L104,420.58v-276a40,40,0,0,1,80,0v200h8v-40a40,40,0,1,1,80,0v40h8v-24a40,40,0,1,1,80,0v24h8a40,40,0,1,1,80,0Zm-256,80h-8v96h8Zm88,0h-8v96h8Zm88,0h-8v96h8Z" transform="translate(0 -0.41)"></path>

diff --git a/energy-archive.html b/energy-archive.html
@@ -201,7 +201,7 @@
 
 
 
-<div class="wp-sticky-container"><div data-project="energy" class="wp-block-search-country-profile"></div><h5><strong>Our 12 most visited country profiles</strong></h5><div class="wp-container-633c092fe9bc8 wp-block-group"><div class="wp-block-group__inner-container">
+<div class="wp-sticky-container"><div data-project="energy" class="wp-block-search-country-profile"></div><h5><strong>Our 12 most visited country profiles</strong></h5><div class="wp-container-633c1c0798c5f wp-block-group"><div class="wp-block-group__inner-container">
 <ul class="covid-country-tiles"><li><a href="https://ourworldindata.org/energy/country/united-states?country=~USA">United States</a></li><li><a href="https://ourworldindata.org/energy/country/united-kingdom?country=~GBR">United Kingdom</a></li><li><a href="https://ourworldindata.org/energy/country/china?country=~CHN">China</a></li><li><a href="https://ourworldindata.org/energy/country/india?country=~IND">India</a></li><li><a href="https://ourworldindata.org/energy/country/brazil?country=~BRA">Brazil</a></li><li><a href="https://ourworldindata.org/energy/country/south-africa?country=~ZAF">South Africa</a></li><li><a href="https://ourworldindata.org/energy/country/germany?country=~DEU">Germany</a></li><li><a href="https://ourworldindata.org/energy/country/spain?country=~ESP">Spain</a></li><li><a href="https://ourworldindata.org/energy/country/france?country=~FRA">France</a></li><li><a href="https://ourworldindata.org/energy/country/canada?country=~CAN">Canada</a></li><li><a href="https://ourworldindata.org/energy/country/australia?country=~AUS">Australia</a></li><li><a href="https://ourworldindata.org/energy/country/sweden?country=~SWE">Sweden</a></li></ul>
 </div></div></div></div>
 

diff --git a/co2-and-other-greenhouse-gas-emissions.html b/co2-and-other-greenhouse-gas-emissions.html
@@ -23,7 +23,7 @@
 
 
 
-<div class="wp-sticky-container"><div data-project="co2" class="wp-block-search-country-profile"></div><h5><strong>Our 12 most visited country profiles</strong></h5><div class="wp-container-633c09322eb06 wp-block-group">
+<div class="wp-sticky-container"><div data-project="co2" class="wp-block-search-country-profile"></div><h5><strong>Our 12 most visited country profiles</strong></h5><div class="wp-container-633c1c0a55b40 wp-block-group">
 <ul class="covid-country-tiles"><li><a href="https://ourworldindata.org/co2/country/united-states?country=~USA">United States</a></li><li><a href="https://ourworldindata.org/co2/country/united-kingdom?country=~GBR">United Kingdom</a></li><li><a href="https://ourworldindata.org/co2/country/china?country=~CHN">China</a></li><li><a href="https://ourworldindata.org/co2/country/india?country=~IND">India</a></li><li><a href="https://ourworldindata.org/co2/country/brazil?country=~BRA">Brazil</a></li><li><a href="https://ourworldindata.org/co2/country/south-africa?country=~ZAF">South Africa</a></li><li><a href="https://ourworldindata.org/co2/country/germany?country=~DEU">Germany</a></li><li><a href="https://ourworldindata.org/co2/country/spain?country=~ESP">Spain</a></li><li><a href="https://ourworldindata.org/co2/country/france?country=~FRA">France</a></li><li><a href="https://ourworldindata.org/co2/country/canada?country=~CAN">Canada</a></li><li><a href="https://ourworldindata.org/co2/country/australia?country=~AUS">Australia</a></li><li><a href="https://ourworldindata.org/co2/country/sweden?country=~SWE">Sweden</a></li></ul>
 </div></div></div>
 

diff --git a/grapher/share-of-population-living-in-extreme-poverty-historical.html b/grapher/share-of-population-living-in-extreme-poverty-historical.html
@@ -17,11 +17,11 @@
       "Eastern Europe and former USSR"
     ]
   },
-  "note": "Data is measured in international-$ at 2011 prices to account for inflation and differences in the cost of living between countries. The sharp increase in 1950 corresponds to the inclusion of several sub-Saharan African countries only from that year onward.",
+  "note": "Data is measured in international-$ at 2011 prices to account for inflation and differences in the cost of living between countries.",
   "slug": "share-of-population-living-in-extreme-poverty-historical",
   "type": "StackedArea",
   "title": "Share of population living in extreme poverty",
-  "version": 8,
+  "version": 9,
   "subtitle": "Extreme poverty is defined as living below the International Poverty Line of $1.90 per day. Data after 1981 relates to household income or expenditure surveys collated by the World Bank; before 1981 it is based on historical reconstructions of GDP per capita and inequality data.",
   "stackMode": "relative",
   "dimensions": [

diff --git a/grapher/distribution-of-population-between-different-poverty-thresholds-historical.html b/grapher/distribution-of-population-between-different-poverty-thresholds-historical.html
@@ -17,11 +17,11 @@
       "Eastern Europe and former USSR"
     ]
   },
-  "note": "Data is measured in international-$ at 2011 prices. The sharp increase in 1950 corresponds to the inclusion of several sub-Saharan African countries only from that year onward.",
+  "note": "Data is measured in international-$ at 2011 prices.",
   "slug": "distribution-of-population-between-different-poverty-thresholds-historical",
   "type": "StackedArea",
   "title": "Distribution of population between different poverty thresholds",
-  "version": 7,
+  "version": 8,
   "subtitle": "This data is adjusted for inflation and for differences in the cost of living between countries. Data after 1981 relates to household income or expenditure surveys collated by the World Bank; before 1981 it is based on historical reconstructions of GDP per capita and inequality data.",
   "stackMode": "relative",
   "dimensions": [

diff --git a/grapher/share-of-population-living-in-extreme-poverty-cost-of-basic-needs.html b/grapher/share-of-population-living-in-extreme-poverty-cost-of-basic-needs.html
@@ -17,11 +17,10 @@
       "Eastern Europe and former USSR"
     ]
   },
-  "note": "The sharp increase in 1950 corresponds to the inclusion of several sub-Saharan African countries only from that year onward.",
   "slug": "share-of-population-living-in-extreme-poverty-cost-of-basic-needs",
   "type": "StackedArea",
   "title": "Share of population living in extreme poverty",
-  "version": 11,
+  "version": 12,
   "subtitle": "This is calculated based on a ‘cost of basic needs’-approach. It represents the share of the population that was unable to meet basic needs (including minimal nutrition and adequately heated shelter) according to prices of locally-available goods and services at the time.",
   "originUrl": "https://ourworldindata.org/extreme-poverty-in-brief",
   "stackMode": "relative",

diff --git a/democracy.html b/democracy.html
@@ -1862,7 +1862,7 @@ Justifies democracy characteristics</td>
 
 
 
-<div class="wp-container-633c0937978ab wp-block-group">
+<div class="wp-container-633c1c10601b4 wp-block-group">
 <ul><li><strong>full democracy</strong>: comprehensive extent of democracy, few weaknesses</li><li><strong>flawed democracy</strong>: some weaknesses in democratic institutions and culture</li><li><strong>hybrid regime</strong>: serious weaknesses in democratic institutions and culture</li><li><strong>authoritarian regime</strong>: few democratic institutions and little democratic culture</li></ul>
 </div>
 </div>

diff --git a/democracies-measurement.html b/democracies-measurement.html
@@ -531,7 +531,7 @@ Justifies democracy characteristics</td>
 
 
 
-<div class="wp-container-633c0929743f7 wp-block-group">
+<div class="wp-container-633c1c010ac8d wp-block-group">
 <ul><li><strong>full democracy</strong>: comprehensive extent of democracy, few weaknesses</li><li><strong>flawed democracy</strong>: some weaknesses in democratic institutions and culture</li><li><strong>hybrid regime</strong>: serious weaknesses in democratic institutions and culture</li><li><strong>authoritarian regime</strong>: few democratic institutions and little democratic culture</li></ul>
 </div>
 </div>
